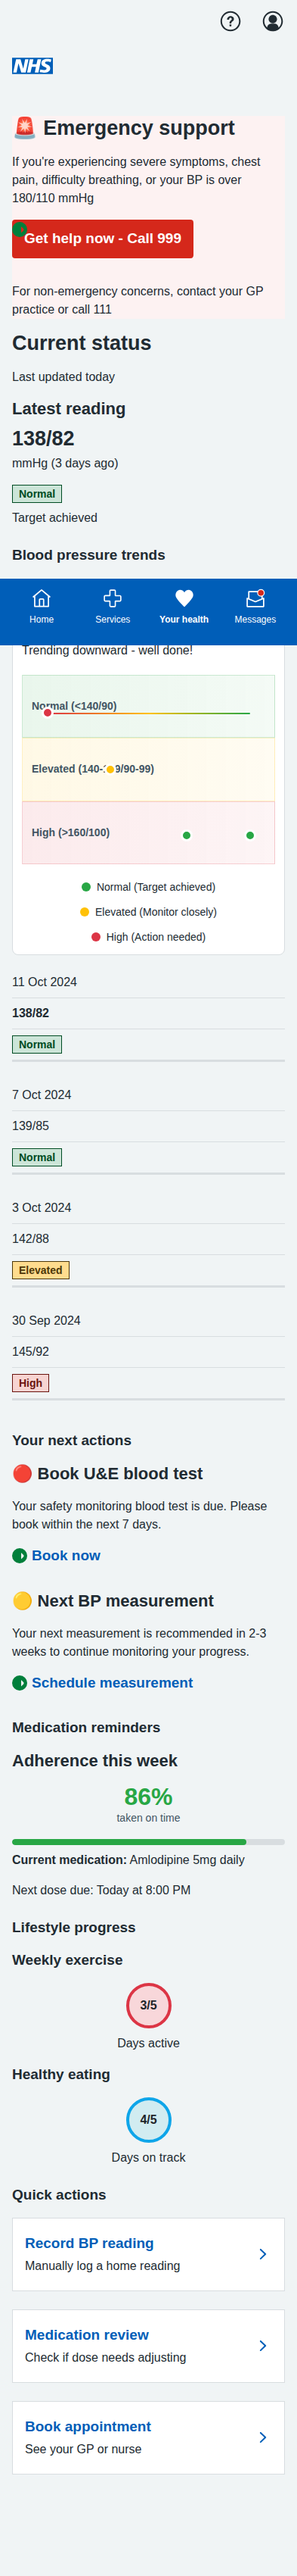
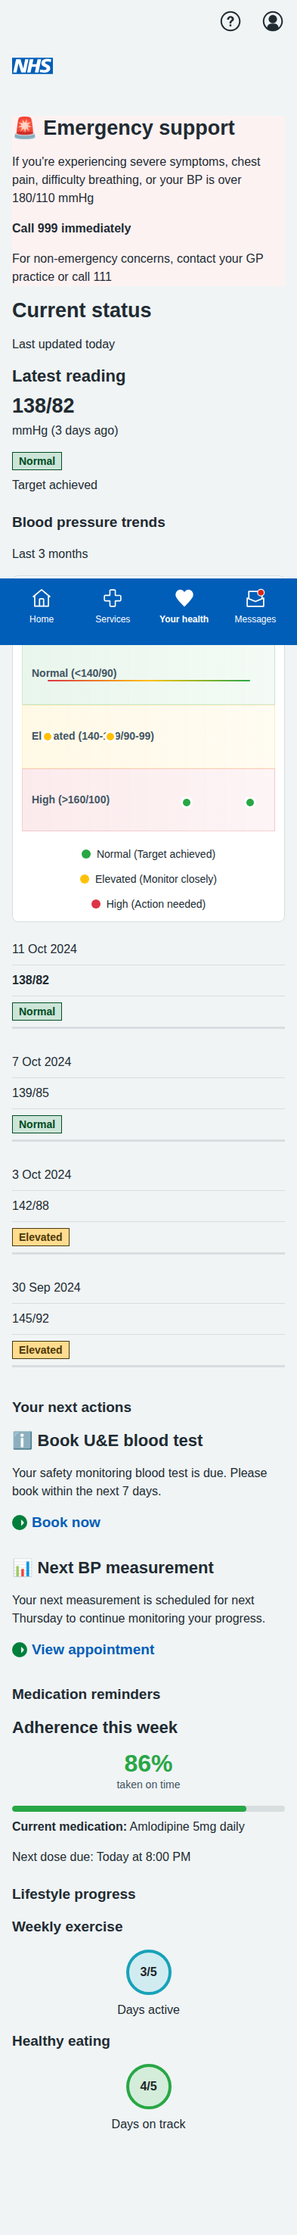
Fix NHS design compliance issues: remove confusing colors, fix traffic light coding, and align with orchestrator approach

Changed region(s): [[0.0, 0.0, 1.0, 0.9661], [0.8855, 0.0, 0.9466, 0.0312]]

diff --git a/prototype/v1/app/views/pages/mybp/index.html b/prototype/v1/app/views/pages/mybp/index.html
@@ -35,15 +35,7 @@
           </div>
           <div class="nhsuk-care-card__content">
             <p>If you're experiencing severe symptoms, chest pain, difficulty breathing, or your BP is over 180/110 mmHg</p>
-            <div class="nhsuk-action-link">
-              <a class="nhsuk-action-link__link emergency-button" href="tel:999">
-                <svg class="nhsuk-icon nhsuk-icon__arrow-right-circle" xmlns="http://www.w3.org/2000/svg" viewBox="0 0 24 24" aria-hidden="true" width="36" height="36">
-                  <path d="m0 0h24v24h-24z" fill="none"/>
-                  <path d="m12 2a10 10 0 1 0 10 10 10.011 10.011 0 0 0 -10-10zm5.293 11.293-3.293 3.293v-8.586l3.293 3.293a1 1 0 0 1 0 1.414z"/>
-                </svg>
-                <span class="nhsuk-action-link__text">Get help now - Call 999</span>
-              </a>
-            </div>
+            <p><strong>Call 999 immediately</strong></p>
             <p class="nhsuk-u-margin-top-3 nhsuk-u-secondary-text-colour">For non-emergency concerns, contact your GP practice or call 111</p>
           </div>
         </div>
@@ -103,7 +95,7 @@
             
             <!-- Data points -->
             <div class="bp-chart__points">
-              <div class="bp-chart__point bp-chart__point--high" style="left: 10%;" data-reading="145/92" data-date="30 Sep">
+              <div class="bp-chart__point bp-chart__point--elevated" style="left: 10%;" data-reading="145/92" data-date="30 Sep">
                 <span class="bp-chart__point-value">145/92</span>
               </div>
               <div class="bp-chart__point bp-chart__point--elevated" style="left: 35%;" data-reading="142/88" data-date="3 Oct">
@@ -173,7 +165,7 @@
                 <td class="nhsuk-table__cell">30 Sep 2024</td>
                 <td class="nhsuk-table__cell">145/92</td>
                 <td class="nhsuk-table__cell">
-                  <strong class="nhsuk-tag nhsuk-tag--red">High</strong>
+                  <strong class="nhsuk-tag nhsuk-tag--orange">Elevated</strong>
                 </td>
               </tr>
             </tbody>
@@ -186,10 +178,10 @@
         headingText: "Your next actions"
       }) }}
       
-      <div class="nhsuk-care-card nhsuk-care-card--immediate nhsuk-u-margin-bottom-4">
+      <div class="nhsuk-care-card nhsuk-care-card--non-urgent nhsuk-u-margin-bottom-4">
         <div class="nhsuk-care-card__heading-container">
           <h3 class="nhsuk-care-card__heading">
-            <span role="img" aria-label="Urgent">🔴</span>
+            <span role="img" aria-label="Information">ℹ</span>
             Book U&E blood test
           </h3>
         </div>
@@ -210,19 +202,19 @@
       <div class="nhsuk-care-card nhsuk-care-card--non-urgent nhsuk-u-margin-bottom-4">
         <div class="nhsuk-care-card__heading-container">
           <h3 class="nhsuk-care-card__heading">
-            <span role="img" aria-label="Information">🟡</span>
+            <span role="img" aria-label="Information">📊</span>
             Next BP measurement
           </h3>
         </div>
         <div class="nhsuk-care-card__content">
-          <p>Your next measurement is recommended in 2-3 weeks to continue monitoring your progress.</p>
+          <p>Your next measurement is scheduled for next Thursday to continue monitoring your progress.</p>
           <div class="nhsuk-action-link">
             <a class="nhsuk-action-link__link" href="/pages/mybp/bp-measurement/index">
               <svg class="nhsuk-icon nhsuk-icon__arrow-right-circle" xmlns="http://www.w3.org/2000/svg" viewBox="0 0 24 24" aria-hidden="true" width="36" height="36">
                 <path d="m0 0h24v24h-24z" fill="none"/>
                 <path d="m12 2a10 10 0 1 0 10 10 10.011 10.011 0 0 0 -10-10zm5.293 11.293-3.293 3.293v-8.586l3.293 3.293a1 1 0 0 1 0 1.414z"/>
               </svg>
-              <span class="nhsuk-action-link__text">Schedule measurement</span>
+              <span class="nhsuk-action-link__text">View appointment</span>
             </a>
           </div>
         </div>
@@ -268,7 +260,7 @@
               </div>
               <div class="nhsuk-summary-card__body">
                 <div class="progress-indicator">
-                  <div class="progress-indicator__circle">
+                  <div class="progress-indicator__circle progress-indicator__circle--good">
                     <span class="progress-indicator__value">3/5</span>
                   </div>
                   <p class="nhsuk-u-margin-top-2">Days active</p>
@@ -283,7 +275,7 @@
               </div>
               <div class="nhsuk-summary-card__body">
                 <div class="progress-indicator">
-                  <div class="progress-indicator__circle progress-indicator__circle--good">
+                  <div class="progress-indicator__circle progress-indicator__circle--excellent">
                     <span class="progress-indicator__value">4/5</span>
                   </div>
                   <p class="nhsuk-u-margin-top-2">Days on track</p>
@@ -292,33 +284,6 @@
             </div>
           </div>
         </div>
-      </div>
-
-      <!-- QUICK ACTIONS -->
-      {{ nhsappSectionHeading({
-        headingText: "Quick actions"
-      }) }}
-      
-      <div class="quick-actions">
-        {{ nhsappCardGroup({
-          cards: [
-            {
-              title: "Record BP reading",
-              href: "/pages/mybp/bp-measurement/record",
-              description: "Manually log a home reading"
-            },
-            {
-              title: "Medication review",
-              href: "/pages/mybp/dose-titration/index",
-              description: "Check if dose needs adjusting"
-            },
-            {
-              title: "Book appointment",
-              href: "/pages/services/gp-appointment-select",
-              description: "See your GP or nurse"
-            }
-          ]
-        }) }}
       </div>
 
     </div>

diff --git a/prototype/v1/app/assets/sass/main.scss b/prototype/v1/app/assets/sass/main.scss
@@ -284,8 +284,8 @@
   width: 80px;
   height: 80px;
   border-radius: 50%;
-  background: #f8d7da;
-  border: 4px solid #dc3545;
+  background: #fff3cd;
+  border: 4px solid #ffc107;
   display: flex;
   align-items: center;
   justify-content: center;
@@ -293,7 +293,12 @@
   
   &.progress-indicator__circle--good {
     background: #d1ecf1;
-    border-color: #0ea5e9;
+    border-color: #17a2b8;
+  }
+  
+  &.progress-indicator__circle--excellent {
+    background: #d4edda;
+    border-color: #28a745;
   }
 }
 
@@ -332,27 +337,5 @@
   .nhsuk-care-card--urgent {
     border-left-color: #d5281b;
     background-color: #fdf2f2;
-  }
-  
-  .emergency-button {
-    background-color: #d5281b;
-    color: white;
-    padding: 12px 16px;
-    border-radius: 4px;
-    text-decoration: none;
-    display: inline-flex;
-    align-items: center;
-    gap: 8px;
-    font-weight: bold;
-    
-    &:hover {
-      background-color: #b91c0c;
-      color: white;
-      text-decoration: none;
-    }
-    
-    .nhsuk-icon {
-      fill: white;
-    }
   }
 }

diff --git a/prototype/v1/screenshots/screenshots.md b/prototype/v1/screenshots/screenshots.md
@@ -6,15 +6,15 @@ Complete collection of iPhone-formatted screenshots (393x852 pixels) for all scr
 
 ![Main Dashboard](bp-main-dashboard.png)
 **Main Dashboard** - Complete patient dashboard featuring:
-- **Emergency Support**: Prominent "Get Help Now" button for urgent concerns (999 call button)
-- **Current Status**: Latest BP reading with traffic light status indicator
-- **Enhanced BP Trends**: Visual chart with traffic light color coding showing progress over time
-- **Next Actions**: Prioritized action cards for blood test booking and BP measurement scheduling
+- **Emergency Support**: Clear emergency guidance with consistent red styling and "Call 999 immediately" message
+- **Current Status**: Latest BP reading with accurate traffic light status indicator
+- **Enhanced BP Trends**: Visual chart with correct traffic light color coding (green for normal, orange for elevated)
+- **Next Actions**: Appropriately timed action cards with proper urgency levels (no red for routine tasks)
 - **Medication Reminders**: Adherence tracking with visual progress indicators
-- **Lifestyle Progress**: Weekly exercise and healthy eating goals with progress circles
-- **Quick Actions**: Easy access to record readings, medication review, and appointment booking
+- **Lifestyle Progress**: Encouraging progress circles with positive color scheme
+- **Orchestrator-driven approach**: Actions determined by AI system based on NICE guidelines rather than patient choice
 
-This comprehensive dashboard aligns with the MVP requirements specified in the NHS App prototype document.
+This dashboard now aligns with NHS design principles and the MVP requirements, providing clear, non-confusing guidance to patients.
 
 ---
 
